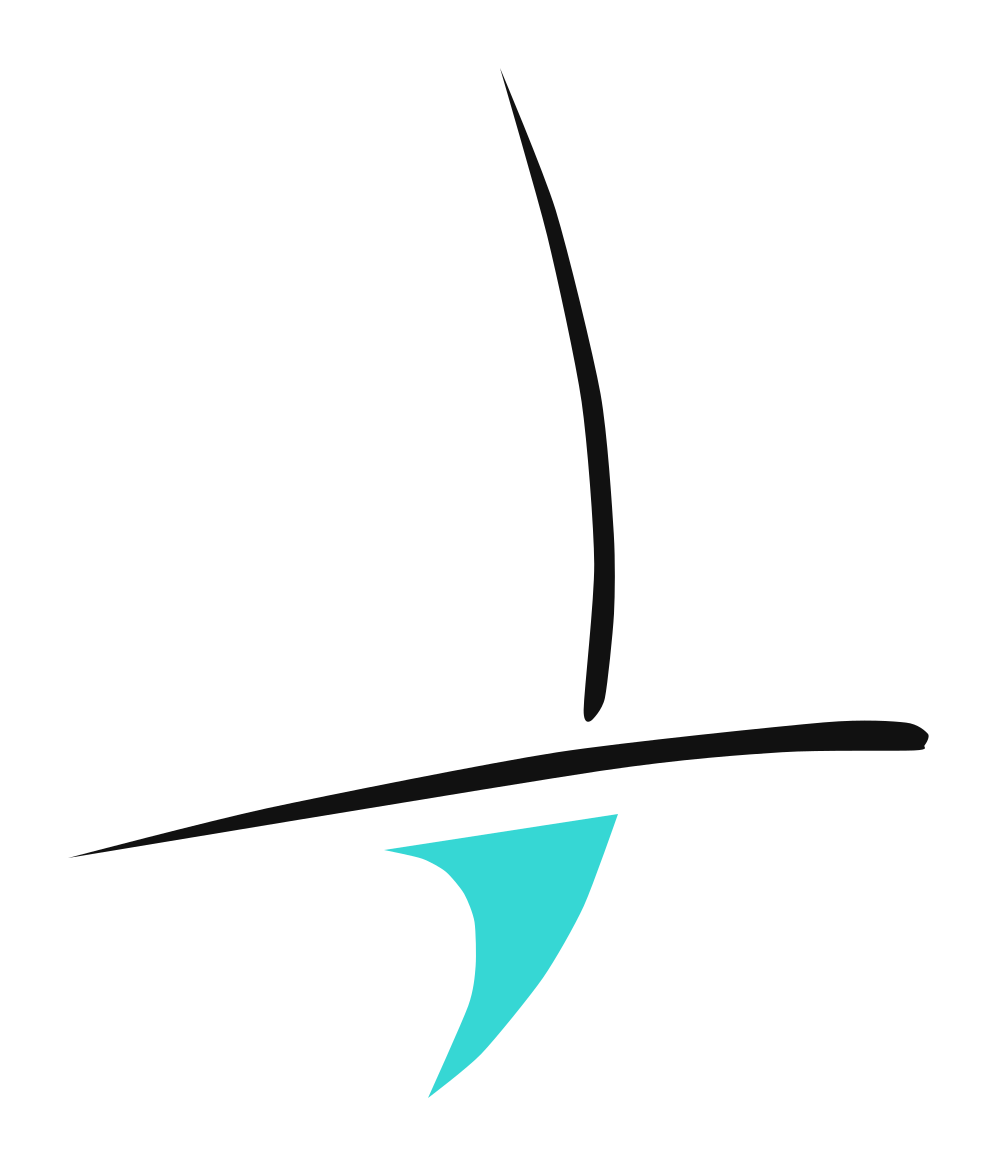
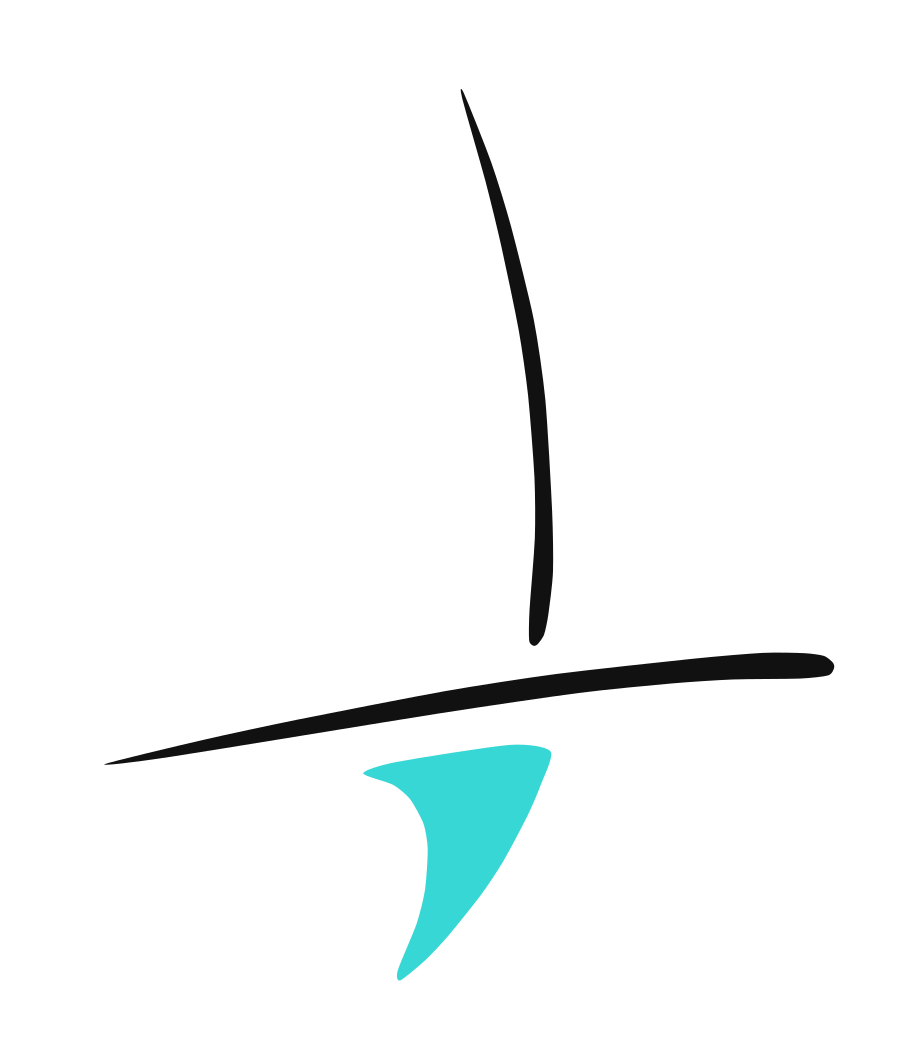
Round contours before spline fitting

diff --git a/src/open_vectorizer/trace.py b/src/open_vectorizer/trace.py
@@ -18,7 +18,9 @@ class TraceOptions:
     background_threshold: float = 8.0
     simplify: float = 3.2
     contour_smooth: int = 15
-    corner_angle: float = 100.0
+    corner_angle: float = 0.0
+    corner_radius: float = 0.0
+    corner_rounding: int = 1
     min_area: float = 18.0
     palette: list[str] | None = None
 
@@ -42,7 +44,13 @@ def trace_image(path: str | Path, options: TraceOptions | None = None) -> str:
     for mask, color in zip(masks, colors, strict=True):
         clipped = mask[y0:y1, x0:x1]
         paths = _mask_to_paths(
-            clipped, opts.simplify, opts.min_area, opts.contour_smooth, opts.corner_angle
+            clipped,
+            opts.simplify,
+            opts.min_area,
+            opts.contour_smooth,
+            opts.corner_angle,
+            opts.corner_radius,
+            opts.corner_rounding,
         )
         if paths:
             paths_by_color.append((color, paths))
@@ -153,7 +161,13 @@ def _mask_bbox(mask: np.ndarray, padding: int, width: int, height: int) -> tuple
 
 
 def _mask_to_paths(
-    mask: np.ndarray, simplify: float, min_area: float, contour_smooth: int, corner_angle: float
+    mask: np.ndarray,
+    simplify: float,
+    min_area: float,
+    contour_smooth: int,
+    corner_angle: float,
+    corner_radius: float,
+    corner_rounding: int,
 ) -> list[str]:
     contours, hierarchy = cv2.findContours(mask, cv2.RETR_CCOMP, cv2.CHAIN_APPROX_NONE)
     if hierarchy is None:
@@ -171,12 +185,30 @@ def _mask_to_paths(
         area = cv2.contourArea(contour)
         if area < min_area or len(contour) < 8:
             continue
-        subpaths = [_contour_to_path(contour, simplify, contour_smooth, corner_angle)]
+        subpaths = [
+            _contour_to_path(
+                contour,
+                simplify,
+                contour_smooth,
+                corner_angle,
+                corner_radius,
+                corner_rounding,
+            )
+        ]
         child_index = contour_hierarchy[contour_index][2]
         while child_index != -1:
             child = contours[child_index]
             if cv2.contourArea(child) >= min_area and len(child) >= 8:
-                subpaths.append(_contour_to_path(child, simplify, contour_smooth, corner_angle))
+                subpaths.append(
+                    _contour_to_path(
+                        child,
+                        simplify,
+                        contour_smooth,
+                        corner_angle,
+                        corner_radius,
+                        corner_rounding,
+                    )
+                )
             child_index = contour_hierarchy[child_index][0]
         subpaths = [path for path in subpaths if path]
         if not subpaths:
@@ -186,12 +218,20 @@ def _mask_to_paths(
 
 
 def _contour_to_path(
-    contour: np.ndarray, simplify: float, contour_smooth: int, corner_angle: float
+    contour: np.ndarray,
+    simplify: float,
+    contour_smooth: int,
+    corner_angle: float,
+    corner_radius: float,
+    corner_rounding: int,
 ) -> str:
     contour = _smooth_closed_contour(contour, contour_smooth, corner_angle)
     approx = cv2.approxPolyDP(contour, simplify, closed=True).reshape(-1, 2).astype(float)
     if len(approx) < 4:
         return ""
+    if corner_radius > 0:
+        return _rounded_closed_path(approx, corner_radius)
+    approx = _chaikin_closed(approx, corner_rounding)
     return _closed_catmull_rom_path(approx, corner_angle)
 
 
@@ -302,6 +342,77 @@ def _closed_catmull_rom_path(points: np.ndarray, corner_angle: float) -> str:
             f"{_fmt(c1[0])} {_fmt(c1[1])} "
             f"{_fmt(c2[0])} {_fmt(c2[1])} "
             f"{_fmt(p2[0])} {_fmt(p2[1])}"
+        )
+    parts.append("Z")
+    return " ".join(parts)
+
+
+def _chaikin_closed(points: np.ndarray, iterations: int, ratio: float = 0.22) -> np.ndarray:
+    if iterations <= 0 or len(points) < 4:
+        return points
+
+    result = points.astype(float)
+    for _ in range(iterations):
+        rounded: list[np.ndarray] = []
+        for index in range(len(result)):
+            current = result[index]
+            following = result[(index + 1) % len(result)]
+            rounded.append(current * (1.0 - ratio) + following * ratio)
+            rounded.append(current * ratio + following * (1.0 - ratio))
+        result = np.array(rounded, dtype=float)
+    return result
+
+
+def _rounded_closed_path(points: np.ndarray, radius: float) -> str:
+    p = points.astype(float)
+    n = len(p)
+    entries = np.empty_like(p)
+    exits = np.empty_like(p)
+
+    for index in range(n):
+        previous = p[(index - 1) % n]
+        current = p[index]
+        following = p[(index + 1) % n]
+
+        incoming = previous - current
+        outgoing = following - current
+        incoming_length = float(np.linalg.norm(incoming))
+        outgoing_length = float(np.linalg.norm(outgoing))
+        if incoming_length == 0.0 or outgoing_length == 0.0:
+            entries[index] = current
+            exits[index] = current
+            continue
+
+        angle = _corner_angle(previous, current, following)
+        if angle > 175.0:
+            entries[index] = current
+            exits[index] = current
+            continue
+
+        # Clip the radius to local edge lengths so small features are rounded without
+        # swallowing the shape. Sharper angles get a slightly shorter cut.
+        angle_scale = max(0.35, min(1.0, np.sin(np.radians(angle / 2.0))))
+        cut = min(radius * angle_scale, incoming_length * 0.45, outgoing_length * 0.45)
+        if cut < 0.5:
+            entries[index] = current
+            exits[index] = current
+            continue
+
+        entries[index] = current + (incoming / incoming_length) * cut
+        exits[index] = current + (outgoing / outgoing_length) * cut
+
+    parts = [f"M {_fmt(exits[0, 0])} {_fmt(exits[0, 1])}"]
+    for index in range(n):
+        following_index = (index + 1) % n
+        entry = entries[following_index]
+        corner = p[following_index]
+        exit_point = exits[following_index]
+        if np.linalg.norm(entry - p[index]) > 0.1:
+            parts.append(f"L {_fmt(entry[0])} {_fmt(entry[1])}")
+        parts.append(
+            "Q "
+            f"{_fmt(corner[0])} {_fmt(corner[1])} "
+            f"{_fmt(exit_point[0])} {_fmt(exit_point[1])}"
         )
     parts.append("Z")
     return " ".join(parts)

diff --git a/tests/test_trace.py b/tests/test_trace.py
@@ -4,7 +4,7 @@ import cv2
 import numpy as np
 
 from open_vectorizer import TraceOptions, trace_image
-from open_vectorizer.trace import _closed_catmull_rom_path, _smooth_closed_contour
+from open_vectorizer.trace import _closed_catmull_rom_path, _rounded_closed_path, _smooth_closed_contour
 
 
 def test_trace_outputs_grouped_svg(tmp_path: Path) -> None:
@@ -22,6 +22,7 @@ def test_trace_outputs_grouped_svg(tmp_path: Path) -> None:
     assert '<g id="shape-group-1" fill="#36d7d4" fill-rule="evenodd">' in svg
     assert '<g id="shape-group-2" fill="#111111" fill-rule="evenodd">' in svg
     assert svg.count("<path") >= 2
+    assert "C 309 407 309 407 309 407" not in svg
 
 
 def test_smooth_closed_contour_dampens_boundary_jitter() -> None:
@@ -63,6 +64,23 @@ def test_shallow_bends_keep_curve_handles() -> None:
     path = _closed_catmull_rom_path(points, corner_angle=100.0)
 
     assert "C 30 6 30 6 30 6" not in path
+
+
+def test_rounded_path_offsets_corners() -> None:
+    points = np.array(
+        [
+            [0.0, 0.0],
+            [60.0, 0.0],
+            [60.0, 60.0],
+            [0.0, 60.0],
+        ]
+    )
+
+    path = _rounded_closed_path(points, radius=10.0)
+
+    assert "Q 60 0 60 7.07" in path
+    assert "Q 60 60 52.93 60" in path
+    assert "L 52.93 0" in path
 
 
 def test_trace_preserves_background_holes(tmp_path: Path) -> None:

diff --git a/src/open_vectorizer/cli.py b/src/open_vectorizer/cli.py
@@ -27,8 +27,20 @@ def build_parser() -> argparse.ArgumentParser:
     parser.add_argument(
         "--corner-angle",
         type=float,
-        default=100.0,
-        help="Angles at or below this value keep crisp corner handles",
+        default=0.0,
+        help="Angles at or below this value keep crisp handles; 0 disables corner clamping",
+    )
+    parser.add_argument(
+        "--corner-radius",
+        type=float,
+        default=0.0,
+        help="Optional radius in pixels used to round simplified contour corners",
+    )
+    parser.add_argument(
+        "--corner-rounding",
+        type=int,
+        default=1,
+        help="Chaikin corner-cut iterations before spline fitting",
     )
     parser.add_argument("--min-area", type=float, default=18.0, help="Small component removal threshold")
     parser.add_argument("--no-crop", action="store_true", help="Keep the original image viewBox")
@@ -57,6 +69,8 @@ def main() -> None:
             simplify=args.simplify,
             contour_smooth=args.contour_smooth,
             corner_angle=args.corner_angle,
+            corner_radius=args.corner_radius,
+            corner_rounding=args.corner_rounding,
             min_area=args.min_area,
             palette=palette,
         ),

diff --git a/docs/ALGORITHM.md b/docs/ALGORITHM.md
@@ -18,8 +18,9 @@ logos.
    fitting curves.
 8. Remove small contours with `--min-area`.
 9. Simplify contours with Ramer-Douglas-Peucker.
-10. Convert simplified contours to closed cubic Bezier paths using Catmull-Rom control points.
-11. Emit one SVG `<g>` per color group with even-odd fill for compound paths.
+10. Cut simplified polygon corners with Chaikin smoothing so sharp raster vertices get real radius.
+11. Convert the rounded contours to closed cubic Bezier paths using Catmull-Rom control points.
+12. Emit one SVG `<g>` per color group with even-odd fill for compound paths.
 
 ## Keel Experiment
 
@@ -32,9 +33,10 @@ open-vectorizer examples/keel-compressed.jpg examples/keel.svg \
   --groups 2 \
   --palette '#36d7d4,#111111' \
   --resize 1200 \
-  --simplify 2.0 \
+  --simplify 2.4 \
   --contour-smooth 21 \
-  --corner-angle 100 \
+  --corner-angle 0 \
+  --corner-rounding 1 \
   --threshold 8 \
   --min-area 1000
 ```
@@ -47,8 +49,10 @@ The output has two shape groups and three total paths:
 The keel's left edge is especially sensitive to JPEG stair-step noise because the contour is long,
 thin, and shallowly curved. Tracing the raw binary boundary can leave visible segment-to-segment
 changes after cubic fitting. The contour smoothing pass dampens those one-pixel wiggles before
-simplification, and the corner detector only locks genuinely sharp angles. Shallow bends keep their
-Catmull-Rom handles, which avoids segmented-looking curves on the green blade.
+simplification. The key fix for the visibly sharp green corner was to stop clamping Bezier handles
+onto detected vertices and instead apply one Chaikin corner-cut pass before Catmull-Rom fitting.
+That physically moves the path off the corner, creating real radius instead of a cubic command with
+collapsed handles.
 
 ## Future Work
 

diff --git a/README.md b/README.md
@@ -8,7 +8,8 @@ It is built around the same practical stages used by high-quality commercial tra
 3. clean each group with morphology,
 4. extract contours,
 5. simplify boundaries,
-6. fit smooth cubic SVG paths.
+6. round corner vertices,
+7. fit smooth cubic SVG paths.
 
 The first target is clean logo reconstruction: a small number of semantic shape groups with elegant
 curves instead of thousands of pixel-like fragments.
@@ -28,9 +29,10 @@ open-vectorizer examples/keel-compressed.jpg examples/keel.svg \
   --groups 2 \
   --palette '#36d7d4,#111111' \
   --resize 1200 \
-  --simplify 2.0 \
+  --simplify 2.4 \
   --contour-smooth 21 \
-  --corner-angle 100 \
+  --corner-angle 0 \
+  --corner-rounding 1 \
   --threshold 8 \
   --min-area 1000
 ```
@@ -50,6 +52,7 @@ Open Vectorizer starts with the strongest open building blocks for this class of
 - color quantization for semantic groups,
 - contour tracing over cleaned masks,
 - Ramer-Douglas-Peucker simplification,
+- Chaikin corner cutting to create real corner radius before curve fitting,
 - Catmull-Rom-to-cubic Bezier fitting for compact, editable SVG paths.
 
 Future work should add optional centerline tracing, better topology handling for holes, palette